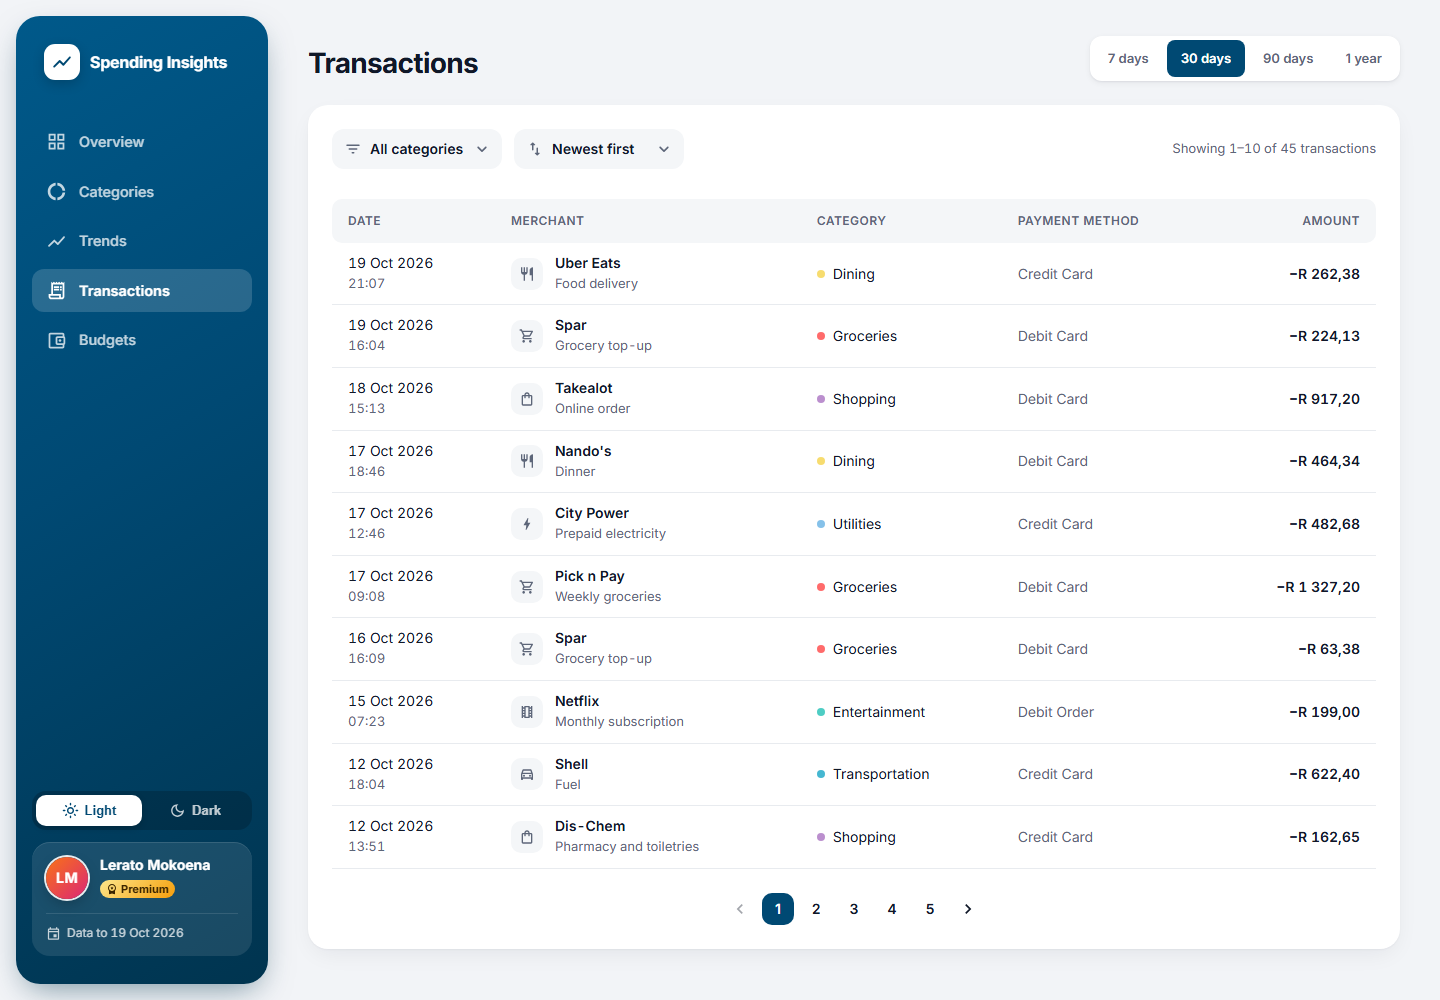
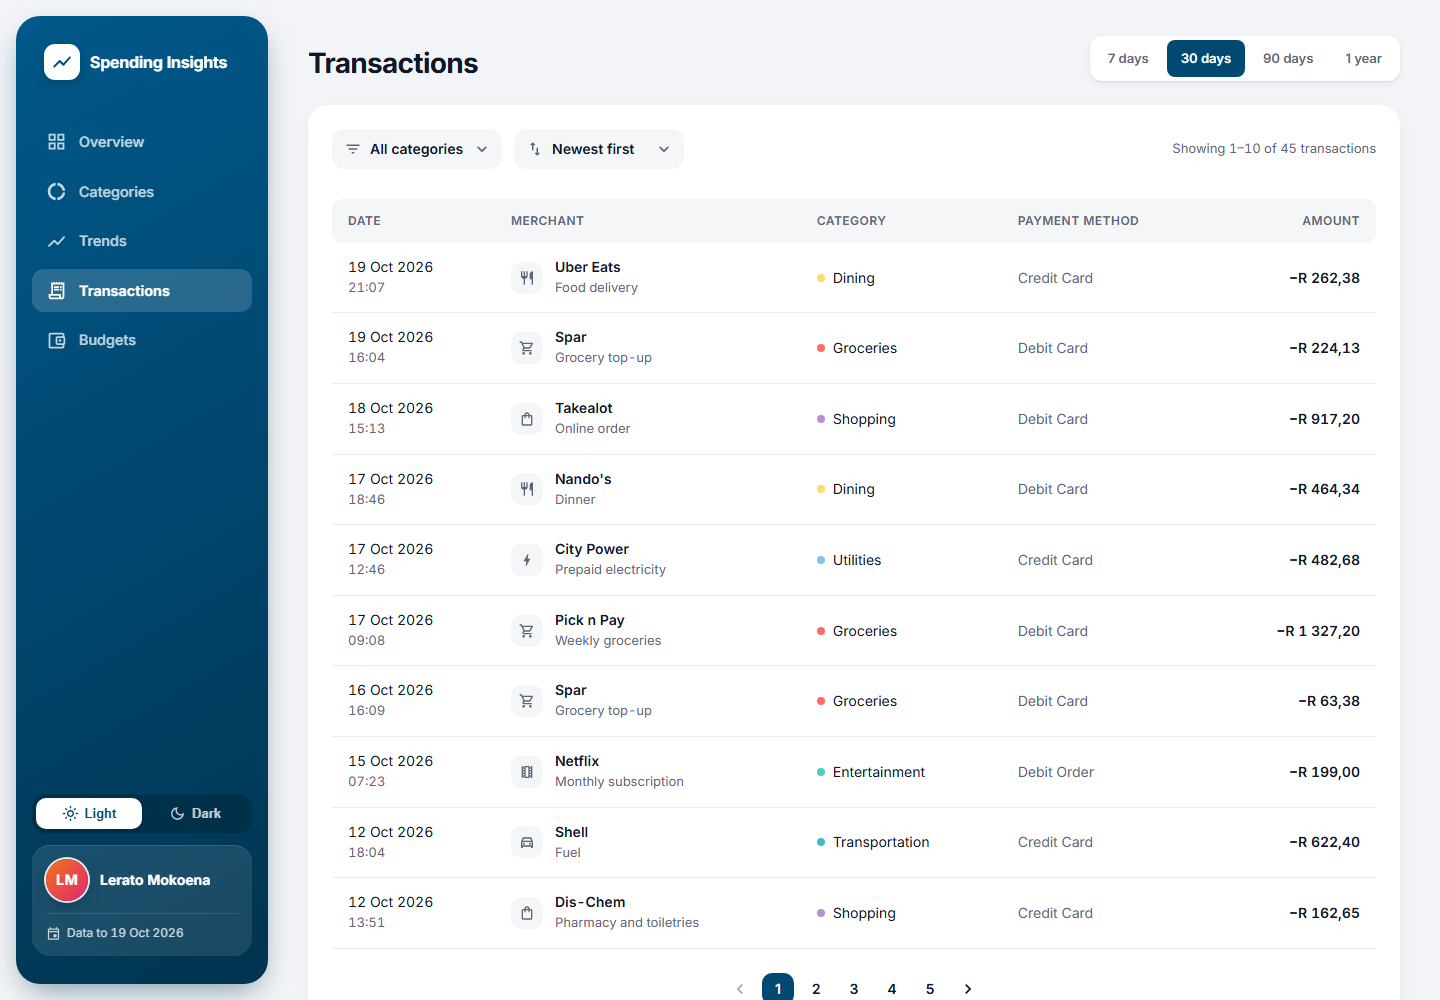
Airier transaction lists and simpler profile card
- Mobile list: amount sort is a flat list with the date inline instead of a
  heading per row; larger rows, sentence-case day headings, more group spacing
- Desktop table rows get more vertical padding
- Remove the Premium badge from the profile card

diff --git a/src/components/transactions/TransactionList.tsx b/src/components/transactions/TransactionList.tsx
@@ -1,41 +1,64 @@
 import { Box, Stack, Typography } from '@mui/material';
-import { toLocalDate } from '../../../shared/dates';
 import type { Transaction } from '../../../shared/types';
-import { formatCurrency, formatDayHeading, formatTransactionTime } from '../../utils/format';
+import {
+  formatCurrency,
+  formatDayHeading,
+  formatTransactionDayMonth,
+  formatTransactionTime,
+} from '../../utils/format';
 import { groupByDay } from '../../utils/transactions';
 import { CategoryDot } from '../common/CategoryDot';
 import { CategoryIcon } from '../common/CategoryIcon';
 
-function TransactionCard({ transaction }: { transaction: Transaction }) {
+function TransactionRow({
+  transaction,
+  showDate,
+}: {
+  transaction: Transaction;
+  showDate: boolean;
+}) {
+  const when = showDate
+    ? formatTransactionDayMonth(transaction.date)
+    : formatTransactionTime(transaction.date);
   return (
     <Stack
       component="li"
       direction="row"
-      spacing={1.5}
-      sx={{ alignItems: 'center', py: 1.25, listStyle: 'none' }}
+      spacing={1.75}
+      sx={{ alignItems: 'center', py: 1.75, listStyle: 'none' }}
     >
-      <CategoryIcon icon={transaction.icon} />
+      <CategoryIcon icon={transaction.icon} size={42} />
       <Box sx={{ flex: 1, minWidth: 0 }}>
-        <Typography variant="subtitle2" noWrap>
+        <Typography variant="subtitle2" noWrap sx={{ fontSize: '0.9375rem', mb: 0.375 }}>
           {transaction.merchant}
         </Typography>
         <Stack direction="row" spacing={0.75} sx={{ alignItems: 'center', minWidth: 0 }}>
           <CategoryDot color={transaction.categoryColor} size={6} />
           <Typography variant="caption" component="p" noWrap>
-            {transaction.category} · {formatTransactionTime(transaction.date)}
+            {transaction.category} · {when}
           </Typography>
         </Stack>
       </Box>
-      <Typography variant="subtitle2" sx={{ whiteSpace: 'nowrap' }}>
+      <Typography
+        variant="subtitle2"
+        sx={{ whiteSpace: 'nowrap', fontSize: '0.9375rem', fontWeight: 700 }}
+      >
         −{formatCurrency(transaction.amount)}
       </Typography>
     </Stack>
   );
 }
 
+const rowListSx = {
+  m: 0,
+  p: 0,
+  '& > li + li': { borderTop: 1, borderColor: 'divider' },
+} as const;
+
 /**
- * Card list for small screens. When sorted by amount the date grouping would
- * be meaningless, so each card then shows its own date heading.
+ * Card list for small screens. Sorted by date, rows are grouped under day
+ * headings; sorted by amount, grouping would be meaningless, so it is a flat
+ * list with the date shown on each row.
  */
 export function TransactionList({
   transactions,
@@ -44,31 +67,30 @@ export function TransactionList({
   transactions: Transaction[];
   groupByDate: boolean;
 }) {
-  const groups = groupByDate
-    ? groupByDay(transactions)
-    : transactions.map((transaction) => ({
-        date: toLocalDate(transaction.date),
-        transactions: [transaction],
-      }));
+  if (!groupByDate) {
+    return (
+      <Box component="ul" sx={rowListSx}>
+        {transactions.map((transaction) => (
+          <TransactionRow key={transaction.id} transaction={transaction} showDate />
+        ))}
+      </Box>
+    );
+  }
 
   return (
-    <Stack spacing={1.5}>
-      {groups.map((group, index) => (
-        <Box key={`${group.date}-${index}`}>
+    <Stack spacing={3}>
+      {groupByDay(transactions).map((group) => (
+        <Box key={group.date}>
           <Typography
             variant="caption"
             component="h3"
-            color="text.secondary"
-            sx={{ fontWeight: 600, textTransform: 'uppercase', letterSpacing: '0.04em' }}
+            sx={{ fontWeight: 600, color: 'text.secondary', mb: 0.5 }}
           >
             {formatDayHeading(group.date)}
           </Typography>
-          <Box
-            component="ul"
-            sx={{ m: 0, p: 0, '& > li + li': { borderTop: 1, borderColor: 'divider' } }}
-          >
+          <Box component="ul" sx={rowListSx}>
             {group.transactions.map((transaction) => (
-              <TransactionCard key={transaction.id} transaction={transaction} />
+              <TransactionRow key={transaction.id} transaction={transaction} showDate={false} />
             ))}
           </Box>
         </Box>

diff --git a/src/components/layout/AppShell.tsx b/src/components/layout/AppShell.tsx
@@ -6,7 +6,6 @@ import GridViewOutlined from '@mui/icons-material/GridViewOutlined';
 import LightModeOutlined from '@mui/icons-material/LightModeOutlined';
 import ReceiptLongOutlined from '@mui/icons-material/ReceiptLongOutlined';
 import ShowChartRounded from '@mui/icons-material/ShowChartRounded';
-import WorkspacePremiumRounded from '@mui/icons-material/WorkspacePremiumRounded';
 import {
   Avatar,
   Box,
@@ -136,29 +135,6 @@ function CustomerAvatar({ name, size = 42 }: { name: string; size?: number }) {
   );
 }
 
-function PremiumBadge() {
-  return (
-    <Stack
-      direction="row"
-      spacing={0.375}
-      sx={{
-        display: 'inline-flex',
-        alignItems: 'center',
-        px: 0.75,
-        py: 0.125,
-        borderRadius: tokens.radius.pill,
-        background: 'linear-gradient(135deg, #FDE68A 0%, #F59E0B 100%)',
-        color: '#3B2500',
-      }}
-    >
-      <WorkspacePremiumRounded aria-hidden sx={{ fontSize: 12 }} />
-      <Typography component="span" sx={{ fontSize: '0.6875rem', fontWeight: 700 }}>
-        Premium
-      </Typography>
-    </Stack>
-  );
-}
-
 function ProfileCard({ profile }: { profile: CustomerProfile }) {
   const meta = useApiMeta();
   return (
@@ -175,12 +151,11 @@ function ProfileCard({ profile }: { profile: CustomerProfile }) {
         <Box sx={{ minWidth: 0 }}>
           <Typography
             variant="body2"
-            sx={{ fontWeight: 700, color: WHITE, lineHeight: 1.3, mb: 0.375 }}
+            sx={{ fontWeight: 700, color: WHITE, lineHeight: 1.3 }}
             noWrap
           >
             {profile.name}
           </Typography>
-          {profile.accountType === 'premium' && <PremiumBadge />}
         </Box>
       </Stack>
       {meta.data && (

diff --git a/src/utils/format.ts b/src/utils/format.ts
@@ -83,6 +83,20 @@ export function formatTransactionDate(isoInstant: string): string {
   return dateFormatter.format(new Date(isoInstant));
 }
 
+const dayMonthFormatter = new Intl.DateTimeFormat(LOCALE, {
+  timeZone: APP_TIMEZONE,
+  day: 'numeric',
+  month: 'short',
+});
+
+/**
+ * Transaction instant → "17 Oct". Unambiguous within any selectable period
+ * (the longest is one year), so the year is omitted where space is tight.
+ */
+export function formatTransactionDayMonth(isoInstant: string): string {
+  return dayMonthFormatter.format(new Date(isoInstant));
+}
+
 /** Transaction instant → Johannesburg time, e.g. "14:30". */
 export function formatTransactionTime(isoInstant: string): string {
   return timeFormatter.format(new Date(isoInstant));

diff --git a/src/components/transactions/TransactionTable.tsx b/src/components/transactions/TransactionTable.tsx
@@ -25,7 +25,7 @@ export function TransactionTable({
 }) {
   return (
     <TableContainer>
-      <Table size="small" sx={{ '& td, & th': { py: 1.25 } }}>
+      <Table size="small" sx={{ '& td, & th': { py: 1.75 }, '& thead th': { py: 1.25 } }}>
         <Box component="caption" sx={visuallyHiddenSx}>
           {caption}
         </Box>

diff --git a/README.md b/README.md
@@ -96,7 +96,7 @@ The app is organised like a modern banking app: an **Overview** dashboard plus f
 - **Modern controls.** Pill-shaped filter selects with an icon and no floating label (the accessible name is still provided), a segmented period picker, and "View all" links in card headers.
 - **Typography.** Self-hosted Inter, tabular numerals so amounts line up, and minimal copy: labels and numbers rather than explanatory sentences.
 - **Light and dark modes.** Light is the default; the choice (sidebar switch on desktop, header button on phones) is remembered on the device. Each mode has its own palette exposed as CSS custom properties, so one switch re-themes every surface; charts read concrete colours for SVG. Both modes pass the automated WCAG 2.2 AA scan on every screen.
-- **Navigation chrome.** A floating brand-blue sidebar with a light/dark switch and a profile card (gradient initials avatar chosen from the customer's name, and a Premium badge from the API's `accountType`). On phones: a brand header and a floating, blurred tab bar where the active tab gets a pill indicator.
+- **Navigation chrome.** A floating brand-blue sidebar with a light/dark switch and a profile card with a gradient initials avatar chosen from the customer's name. On phones: a brand header and a floating, blurred tab bar where the active tab gets a pill indicator.
 - **Tooltips where they add information**, not decoration: the full sentence behind a change badge, what each budget status means, the figures behind each proportion-bar segment, the meaning of the demo data date, and labels for icon-only buttons. Every tooltip target is keyboard-focusable or duplicates text that is already accessible.
 
 ## Architecture
